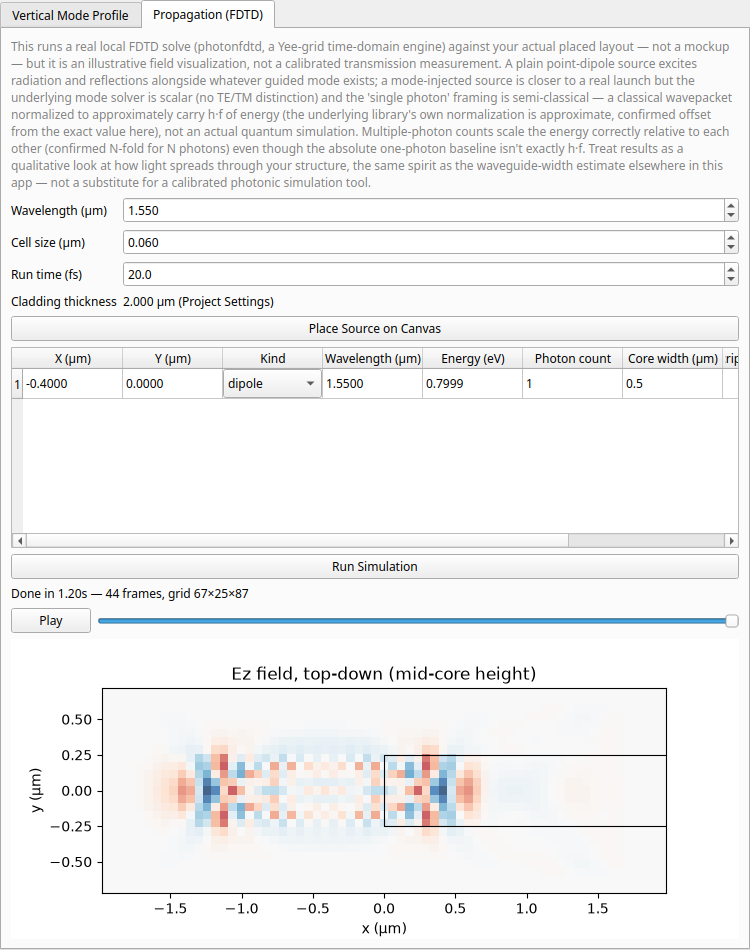
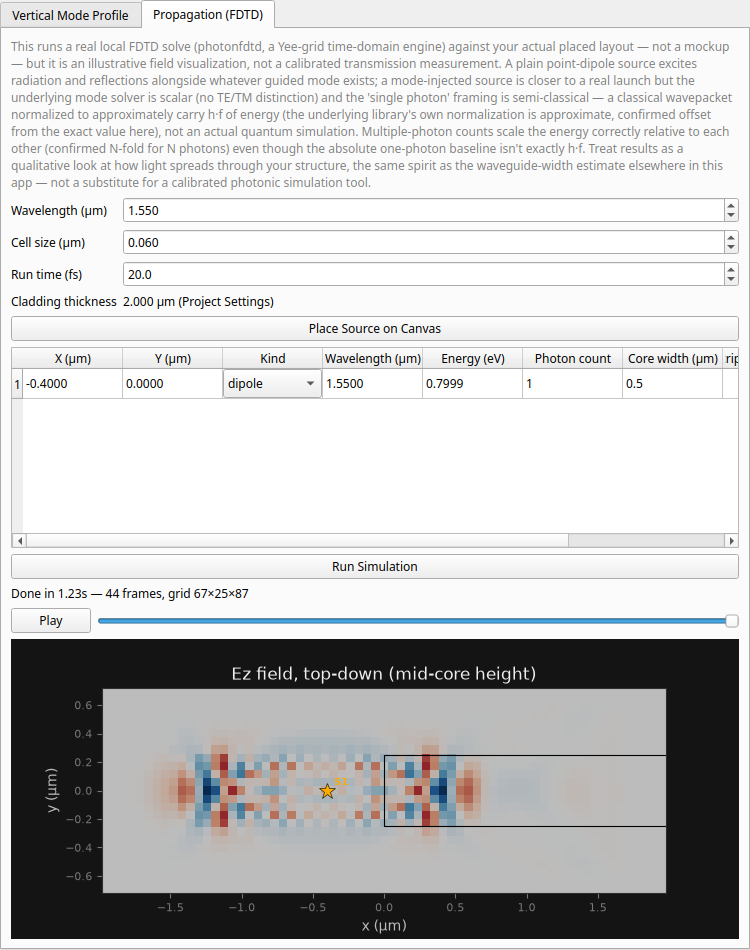
Docs Update

diff --git a/docs/capture_screenshots.py b/docs/capture_screenshots.py
@@ -172,6 +172,88 @@ def fdtd_propagation() -> None:
     save(fdtd_win, "fdtd_propagation")
 
 
+def routing_example() -> None:
+    from PySide6.QtCore import QPointF
+
+    win = MainWindow()
+    win.resize(1100, 700)
+    win.show()
+
+    a = win.document.add_instance("straight", {"length": 8.0, "width": 0.5})
+    win.scene.add_instance_item(a.id)
+    win.document.set_transform(a.id, Transform(x=-8.0, y=0.0, rotation=0.0, mirror=False))
+
+    b = win.document.add_instance("bend_euler", {})
+    win.scene.add_instance_item(b.id)
+    win.document.set_transform(b.id, Transform(x=4.0, y=0.0, rotation=0.0, mirror=False))
+
+    route = win.document.add_route(a.id, "o2", b.id, "o1", "strip")
+    win.scene.add_route_item(route.id)
+
+    win.view.zoom_to_fit()
+    win.view.scale(0.8, 0.8)
+    win.scene.clearSelection()
+    win.route_action.setChecked(True)
+    save(win, "routing_example")
+    win.route_action.setChecked(False)
+
+
+def measure_tool_example() -> None:
+    from PySide6.QtCore import QPointF
+
+    win = MainWindow()
+    win.resize(1100, 700)
+    win.show()
+
+    a = win.document.add_instance("straight", {"length": 12.0, "width": 0.5})
+    win.scene.add_instance_item(a.id)
+    win.document.set_transform(a.id, Transform(x=-6.0, y=0.0, rotation=0.0, mirror=False))
+
+    b = win.document.add_instance("bend_euler", {})
+    win.scene.add_instance_item(b.id)
+    win.document.set_transform(b.id, Transform(x=6.0, y=0.0, rotation=0.0, mirror=False))
+
+    win.view.zoom_to_fit()
+    win.view.scale(0.75, 0.75)
+    win.view.set_measure_mode(True)
+    win.view._draw_measurement(
+        QPointF(-6.0, 0.0), QPointF(6.0, 0.0),
+        dx=12.0, dy=0.0, distance=12.0,
+    )
+    save(win, "measure_tool_example")
+    win.view.set_measure_mode(False)
+
+
+def layers_panel_example() -> None:
+    win = MainWindow()
+    win.resize(350, 500)
+    win.show()
+
+    for comp, kwargs, x in [
+        ("straight", {"length": 10.0, "width": 0.5}, 0.0),
+        ("bend_euler", {}, 15.0),
+        ("mmi1x2", {}, 25.0),
+    ]:
+        inst = win.document.add_instance(comp, kwargs)
+        win.scene.add_instance_item(inst.id)
+        win.document.set_transform(inst.id, Transform(x=x, y=0.0, rotation=0.0, mirror=False))
+
+    win.undo_stack.indexChanged.emit(0)
+    save(win.layers_panel, "layers_panel_example")
+
+
+def properties_panel_example() -> None:
+    win = MainWindow()
+    win.resize(320, 600)
+    win.show()
+
+    inst = win.document.add_instance("ring_single", {"radius": 8.0, "gap": 0.3})
+    win.scene.add_instance_item(inst.id)
+    win.scene.items_by_inst[inst.id].setSelected(True)
+    win.scene.selectionChanged.emit()
+    save(win.properties_panel, "properties_panel_example")
+
+
 def console_session() -> None:
     win = MainWindow()
     win.resize(1200, 800)
@@ -198,5 +280,9 @@ if __name__ == "__main__":
     drc_violation()
     fdtd_mode_profile()
     fdtd_propagation()
+    routing_example()
+    measure_tool_example()
+    layers_panel_example()
+    properties_panel_example()
     console_session()
     print("done")

diff --git a/src/phidler/panels/fdtd_window.py b/src/phidler/panels/fdtd_window.py
@@ -134,6 +134,7 @@ class FdtdWindow(QMainWindow):
         self._syncing_wavelength_energy = False
         self._last_sim = None
         self._last_result = None
+        self._last_params = None
         self._chip_outline_drawn = False
 
         self._play_timer = QTimer(self)
@@ -190,10 +191,12 @@ class FdtdWindow(QMainWindow):
         self.mode_status_label.setWordWrap(True)
         layout.addWidget(self.mode_status_label)
 
-        self.mode_figure = Figure(figsize=(4, 3))
+        self.mode_figure = Figure(figsize=(4, 3), facecolor="#141414")
         self.mode_canvas = FigureCanvasQTAgg(self.mode_figure)
         self.mode_canvas.setMinimumHeight(280)
+        self.mode_canvas.setStyleSheet("background: #141414;")
         self.mode_ax = self.mode_figure.add_subplot(111)
+        self.mode_ax.set_facecolor("#141414")
         layout.addWidget(self.mode_canvas)
 
         return widget
@@ -248,6 +251,7 @@ class FdtdWindow(QMainWindow):
         self.mode_ax.set_xlabel("y (µm)")
         self.mode_ax.set_ylabel("z (µm)")
         self.mode_ax.set_title("|ψ| — mode profile")
+        self._dark_axes(self.mode_figure, self.mode_ax)
         self.mode_canvas.draw()
 
     def _on_mode_failed(self, message: str) -> None:
@@ -324,10 +328,12 @@ class FdtdWindow(QMainWindow):
         playback_row.addWidget(self.frame_slider)
         layout.addLayout(playback_row)
 
-        self.run_figure = Figure(figsize=(4, 3))
+        self.run_figure = Figure(figsize=(4, 3), facecolor="#141414")
         self.run_canvas = FigureCanvasQTAgg(self.run_figure)
         self.run_canvas.setMinimumHeight(280)
+        self.run_canvas.setStyleSheet("background: #141414;")
         self.run_ax = self.run_figure.add_subplot(111)
+        self.run_ax.set_facecolor("#141414")
         layout.addWidget(self.run_canvas)
 
         return widget
@@ -438,6 +444,7 @@ class FdtdWindow(QMainWindow):
 
     def _on_run_clicked(self) -> None:
         params = self._current_params()
+        self._last_params = params
         try:
             cell_count = estimate_grid_cell_count(self.document, params)
         except ValueError as exc:
@@ -543,16 +550,47 @@ class FdtdWindow(QMainWindow):
             # own extent instead, so the full simulated domain stays
             # visible with the chip geometry drawn as a reference on top.
             self._draw_chip_outline(self.run_ax)
+            self._draw_source_markers(self.run_ax)
             self.run_ax.set_xlim(extent[0], extent[1])
             self.run_ax.set_ylim(extent[2], extent[3])
             self.run_ax.set_xlabel("x (µm)")
             self.run_ax.set_ylabel("y (µm)")
             self.run_ax.set_title("Ez field, top-down (mid-core height)")
+            self._dark_axes(self.run_figure, self.run_ax)
             self._chip_outline_drawn = True
         else:
             self._field_im.set_data(frame.T)
             self._field_im.set_clim(-vmax, vmax)
         self.run_canvas.draw()
+
+    @staticmethod
+    def _dark_axes(fig, ax) -> None:
+        bg = "#141414"
+        fig.patch.set_facecolor(bg)
+        ax.set_facecolor(bg)
+        for item in (ax.xaxis.label, ax.yaxis.label):
+            item.set_color("#bbbbbb")
+        ax.title.set_color("#eeeeee")
+        ax.tick_params(colors="#777777", labelsize=8)
+        for spine in ax.spines.values():
+            spine.set_edgecolor("#2e2e2e")
+
+    def _draw_source_markers(self, ax) -> None:
+        if self._last_params is None:
+            return
+        for i, src in enumerate(self._last_params.sources, 1):
+            ax.plot(
+                src.x_um, src.y_um,
+                marker="*", markersize=12,
+                color="#ffaa00", markeredgecolor="#000000",
+                markeredgewidth=0.4, linestyle="none", zorder=10,
+            )
+            ax.annotate(
+                f"S{i}", (src.x_um, src.y_um),
+                xytext=(5, 4), textcoords="offset points",
+                color="#ffaa00", fontsize=7.5, fontweight="bold",
+                zorder=11,
+            )
 
     def _draw_chip_outline(self, ax) -> None:
         from matplotlib.patches import Polygon as MplPolygon

diff --git a/docs/guide.md b/docs/guide.md
@@ -114,6 +114,8 @@ its parameters — length, width, radius, cross-section, etc. Click **Apply**
 to regenerate its geometry. `cross_section` is a dropdown of the active
 platform's valid names, so you can't type something invalid.
 
+<img src="screenshots/properties_panel_example.png" width="300" alt="Properties panel showing editable parameters for a selected ring resonator">
+
 ### Precision transform entry
 
 The same panel has a **Transform** section above the parameter form —
@@ -130,6 +132,8 @@ The **Layers** panel (right side) lists every layer your design actually
 uses — it starts empty and grows as you place/route/import. Toggle
 visibility or change a layer's color with the checkbox and color swatch.
 
+<img src="screenshots/layers_panel_example.png" width="320" alt="Layers panel showing active layers with visibility toggles and color swatches">
+
 ## Routing
 
 1. Click **Route** in the toolbar (or press the shortcut shown in the
@@ -142,6 +146,8 @@ visibility or change a layer's color with the checkbox and color swatch.
 4. Routes are selectable and deletable like any other item, and fully
    undoable.
 
+<img src="screenshots/routing_example.png" width="700" alt="Routing: a straight waveguide connected to a bend via an auto-routed euler path, with the Route button active in the toolbar">
+
 ## Measuring distances
 
 1. Click **Measure** in the toolbar.
@@ -151,6 +157,8 @@ visibility or change a layer's color with the checkbox and color swatch.
    same way routing's port clicks do.
 3. Click again to start a new measurement (clears the old one), or press
    `Esc` to cancel a pending first point and exit Measure mode.
+
+<img src="screenshots/measure_tool_example.png" width="700" alt="Measure tool: a dashed cyan line with a distance/dx/dy label across two components">
 
 Turning on Measure mode turns off Route mode and cancels any armed
 placement, and vice versa — only one click-driven mode is active at a